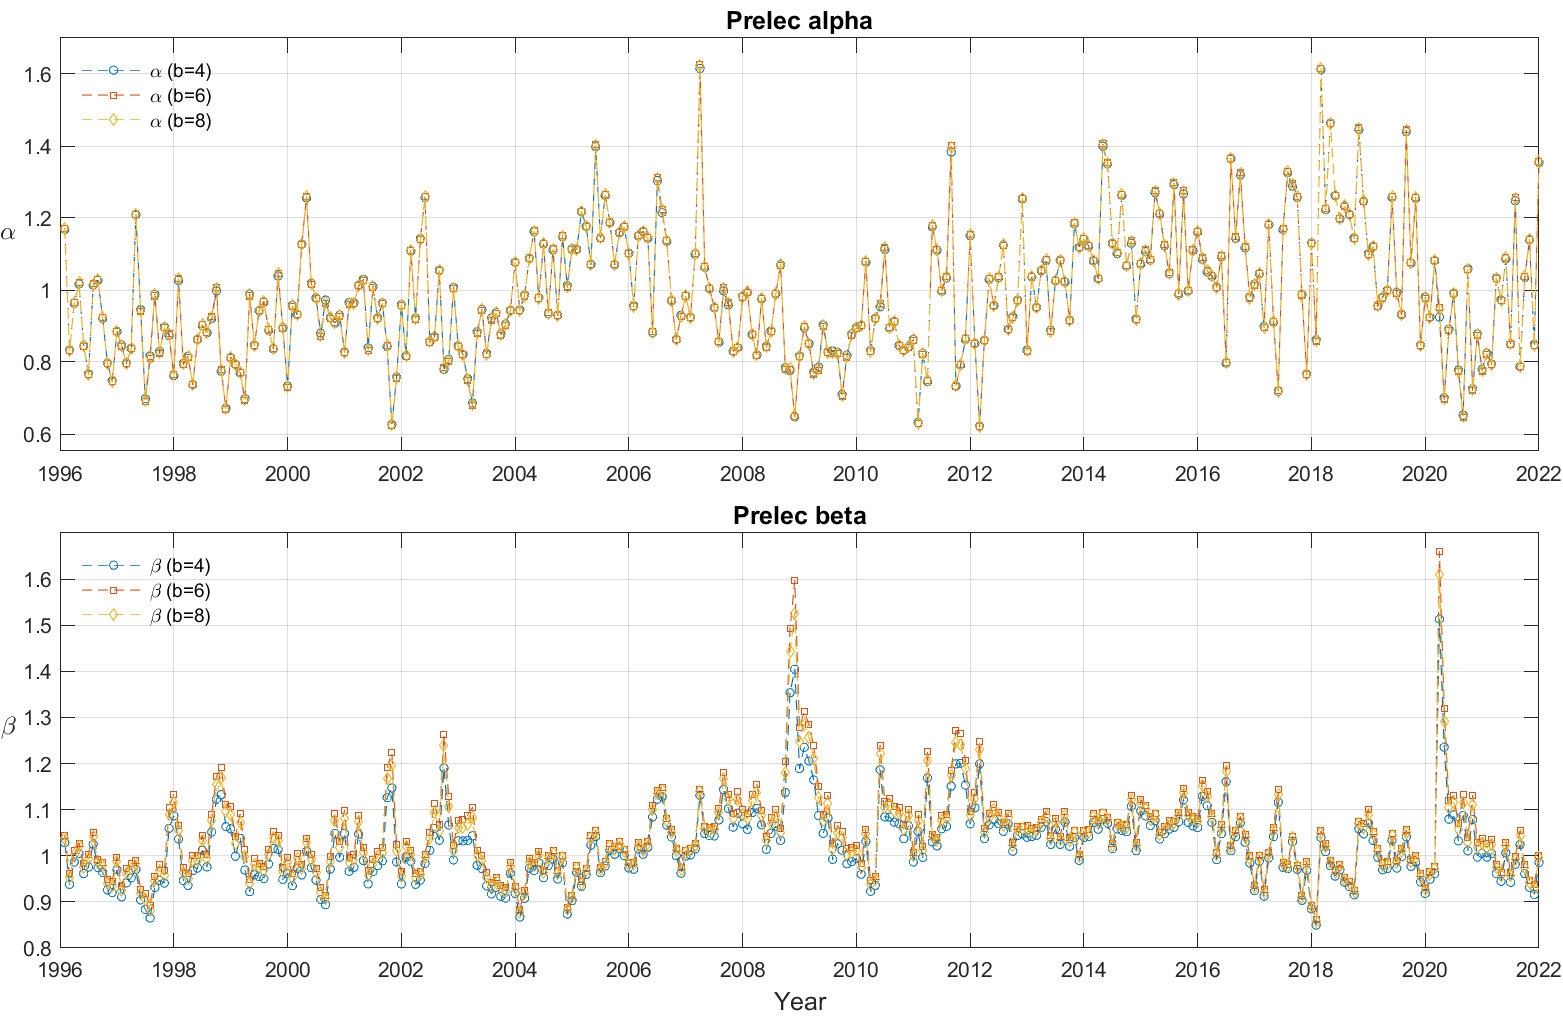
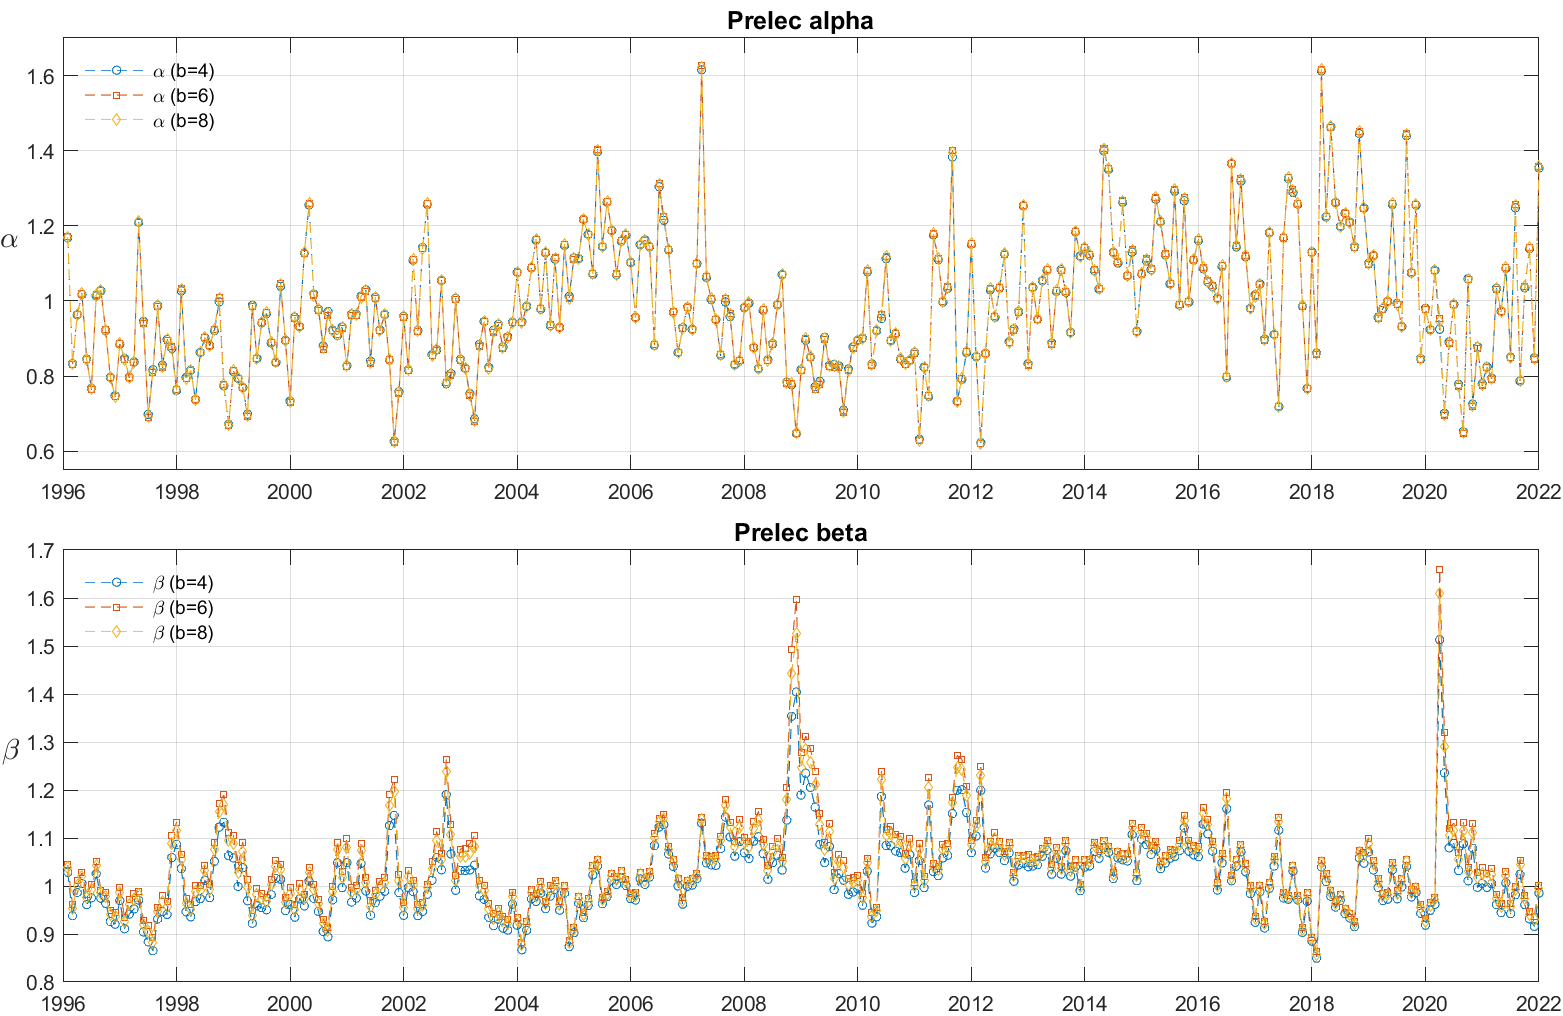
Adjust figure settings

diff --git a/08  變形函數（Distortion Function）/Procedure__Estimate_Distortion_Function_Parameters_Monthly.m b/08  變形函數（Distortion Function）/Procedure__Estimate_Distortion_Function_Parameters_Monthly.m
@@ -233,7 +233,7 @@ plot(years_with_months, optimal_alpha(:, 2), '--s', 'DisplayName', '\alpha (b=6)
 plot(years_with_months, optimal_alpha(:, 3), '--d', 'DisplayName', '\alpha (b=8)', 'MarkerSize', 4, 'LineWidth', 0.2);
 hold off;
 title('Prelec alpha', 'FontSize', 12);
-ylabel('\alpha', 'Rotation', 0, 'HorizontalAlignment', 'right', 'FontSize', 12);
+ylabel('\alpha', 'Rotation', 0, 'HorizontalAlignment', 'right', 'FontSize', 14);
 legend('Location', 'northwest', 'Box', 'Off');
 xlim([1996, 2022]);
 ylim([0.55, 1.7]);
@@ -248,8 +248,7 @@ plot(years_with_months, optimal_beta(:, 2), '--s', 'DisplayName', '\beta (b=6)',
 plot(years_with_months, optimal_beta(:, 3), '--d', 'DisplayName', '\beta (b=8)', 'MarkerSize', 4, 'LineWidth', 0.2);
 hold off;
 title('Prelec beta', 'FontSize', 12);
-xlabel('Year', 'FontSize', 12);
-ylabel('\beta', 'Rotation', 0, 'HorizontalAlignment', 'right', 'FontSize', 12);
+ylabel('\beta', 'Rotation', 0, 'HorizontalAlignment', 'right', 'FontSize', 14);
 legend('Location', 'northwest', 'Box', 'Off');
 xlim([1996, 2022]);
 ylim([0.8, 1.7]);
@@ -294,7 +293,6 @@ plot(years_with_months, optimal_beta(:, 2), '--s', 'DisplayName', '\beta (b=6)',
 plot(years_with_months, optimal_beta(:, 3), '--d', 'DisplayName', '\beta (b=8)', 'MarkerSize', 4, 'LineWidth', 0.2);
 hold off;
 title('Prelec beta', 'FontName', 'Fira Sans', 'FontSize', 12);
-xlabel('Year', 'FontSize', 12);
 ylabel('\beta', 'Rotation', 0, 'HorizontalAlignment', 'right', 'FontSize', 14);
 legend('Location', 'northwest', 'Box', 'Off');
 xlim([1996, 2022]);
@@ -321,10 +319,9 @@ plot(years_with_months, optimal_alpha(:, 1), '--o', 'DisplayName', '\alpha (b=4)
 hold on;
 plot(years_with_months, optimal_alpha(:, 2), '--s', 'DisplayName', '\alpha (b=6)', 'MarkerSize', 4, 'LineWidth', 0.2);
 plot(years_with_months, optimal_alpha(:, 3), '--d', 'DisplayName', '\alpha (b=8)', 'MarkerSize', 4, 'LineWidth', 0.2);
-hold off;
+hold off;c
 % title('Prelec alpha', 'FontName', 'Fira Sans', 'FontSize', 12);
-xlabel('Year', 'FontSize', 12);
-ylabel('\alpha', 'Rotation', 0, 'HorizontalAlignment', 'right', 'FontSize', 14);
+ylabel('\alpha', 'Rotation', 0, 'HorizontalAlignment', 'right', 'FontSize', 16);
 legend('Location', 'northwest', 'Box', 'Off');
 xlim([1996, 2022]);
 ylim([0.5, 1.8]);
@@ -351,9 +348,11 @@ hold on;
 plot(years_with_months, optimal_beta(:, 2), '--s', 'DisplayName', '\beta (b=6)', 'MarkerSize', 4, 'LineWidth', 0.2);
 plot(years_with_months, optimal_beta(:, 3), '--d', 'DisplayName', '\beta (b=8)', 'MarkerSize', 4, 'LineWidth', 0.2);
 hold off;
+
+set(gca, 'FontSize', 12);
+
 % title('Prelec beta', 'FontName', 'Fira Sans', 'FontSize', 12);
-xlabel('Year', 'FontSize', 12);
-ylabel('\beta', 'Rotation', 0, 'HorizontalAlignment', 'right', 'FontSize', 14);
+ylabel('\beta', 'Rotation', 0, 'HorizontalAlignment', 'right', 'FontSize', 16);
 legend('Location', 'northwest', 'Box', 'Off');
 xlim([1996, 2022]);
 ylim([0.8, 1.7]);
